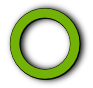
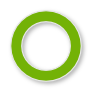
beautifull widget numeric options

Changed region(s): [[0.087, 0.0455, 0.9348, 0.9545], [0.1957, 0.1818, 0.7826, 0.7955]]

diff --git a/src/gui/spin_button_picture.cpp b/src/gui/spin_button_picture.cpp
@@ -36,6 +36,7 @@ SpinButtonWithPicture::SpinButtonWithPicture (const std::string &label, const st
   Profile *res = resource_manager.LoadXMLProfile( "graphism.xml", false); 
   m_image = resource_manager.LoadImage(res, resource_id);
   m_full_circle = resource_manager.LoadImage(res, "menu/full_circle");
+  m_full_circle_border = resource_manager.LoadImage(res, "menu/full_circle_border");
   m_partial_circle_color = resource_manager.LoadColor(res, "menu/partial_circle_color");
   resource_manager.UnLoadXMLProfile( res); 
 
@@ -99,7 +100,12 @@ void SpinButtonWithPicture::Draw(const Point2i &/*mousePosition*/, Surface& /*su
 
   video_window.FilledPolygon (points, m_partial_circle_color);
 
-  // 3. finally let's put the image
+  // 3. then draw the full circle border
+  uint tmp_circle_border_x = GetPositionX() + (GetSizeX() - m_full_circle_border.GetWidth())/4 ;
+  uint tmp_circle_border_y = GetPositionY() + (GetSizeY() - m_full_circle_border.GetHeight() - txt_label->GetHeight() - 5) /2;
+  video_window.Blit(m_full_circle_border, Point2i(tmp_circle_border_x, tmp_circle_border_y));
+
+  // 4. finally let's put the image
   uint tmp_x = GetPositionX() + (GetSizeX() - m_image.GetWidth())/4 ;
   uint tmp_y = GetPositionY() + (GetSizeY() - m_image.GetHeight() - txt_label->GetHeight() - 5) /2;
 

diff --git a/src/gui/spin_button_picture.h b/src/gui/spin_button_picture.h
@@ -40,6 +40,7 @@ class SpinButtonWithPicture : public Widget
 
   Surface m_image;
   Surface m_full_circle;
+  Surface m_full_circle_border;
   Color m_partial_circle_color;
 
  protected:
